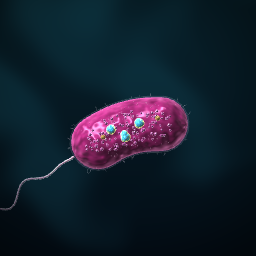
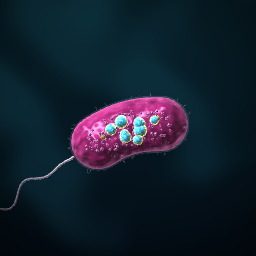
Снимки карточек: липучка, стрелы и быстрый рост на уровне 2, хвост целиком в кадре
Claude-Session: https://claude.ai/code/session_019VbyzHY9a6Ukt8aRvAWHvh

Changed region(s): [[0.4062, 0.4375, 0.625, 0.5625]]

diff --git a/proby/zaplyv/stend/hod.html b/proby/zaplyv/stend/hod.html
@@ -32,7 +32,7 @@ import { telo as telo_rosta } from '../delenie.js';
 const q0 = new URLSearchParams(location.search), MR = await (await fetch('../mir.json')).json(), K = MR.hod, KK = MR.kontakt, Z = MR.zhizn, S = K.stend, vid = VC.vidy[q0.get('sushchestvo')] ? q0.get('sushchestvo') : 'nasha';
 // ?snimok=1 — снимок для карточки умения (Роман 26.11 21:43: в карточки «из конструктора конкретную картинку»): клетка крупно по центру, плывёт ровно,
 // без кнопок, еды и взвеси; числа mir.json hod.stend.snimok. Снимки пересобирает stend/karty.cjs
-const SN = q0.get('snimok') ? S.snimok : null; if (SN) { S.tolshchina = SN.tolshchina; document.body.classList.add('snimok'); }
+const SN = q0.get('snimok') ? S.snimok : null; if (SN) document.body.classList.add('snimok');
 const W = 720, gl = new THREE.WebGLRenderer({ canvas: document.getElementById('c'), antialias: true, preserveDrawingBuffer: !!SN }); gl.setPixelRatio(Math.min(devicePixelRatio, 2.5)); gl.autoClear = false;
 const H = W * innerHeight / innerWidth; gl.setSize(innerWidth, innerHeight, false);
 const cam = new THREE.OrthographicCamera(0, W, 0, H, -1, 1), back = new THREE.Scene(), bodies = new Bodies(); bodies.resize(W, H);
@@ -45,7 +45,7 @@ bg.position.set(W / 2, H / 2, 0); bg.scale.y = -1; back.add(bg);
 let s = (+(q0.get('seed') || 1)) * 2654435761 % 2147483647 || 1; const rnd = () => (s = (s * 16807) % 2147483647) / 2147483647, hash = (a, b) => { const x = Math.sin(a * 127.1 + b * 311.7) * 43758.5453; return x - Math.floor(x); };
 // Умения на теле: набор { умение: уровень } из адреса (?navyki=hvost:2,ship:1) и с кнопок слева; запись клетки пересобирается с частями уровня (s_navykami)
 // ?poverh=1 — как в игре с ручным телом: клетка без умений, части умений дорисованы поверх (chasti_navykov)
-const POVERH = !!q0.get('poverh'), NV = {}; let zerno = +(q0.get('vid') || 0); for (const p of (q0.get('navyki') || '').split(',')) { const [k, u] = p.split(':'); if (VC.navyki.spisok[k] && +u > 0) NV[k] = +u; }
+const POVERH = !!q0.get('poverh'), NV = {}; let zerno = +(q0.get('vid') || 0); for (const p of (q0.get('navyki') || '').split(',')) { const [k, u] = p.split(':'); if (VC.navyki.spisok[k] && +u > 0) NV[k] = +u; } if (SN) S.tolshchina = SN.svoi?.[Object.keys(NV)[0]]?.tolshchina || SN.tolshchina;
 // Запись под ползунками: каждый раз новая копия записи вида, поэтому паспорт хода и величины считаются заново.
 const P0 = { myag: +(1 / (VC.vidy[vid].forma.zhestkost || 1)).toFixed(2), zhg: VC.vidy[vid].chasti.zhgutiki ? VC.vidy[vid].chasti.zhgutiki.n ?? VC.chasti.zhgutiki.n : 0, dl: 1, korma: VC.vidy[vid].chasti.zhgutiki?.gde === 'korma' ? 1 : 0 }, PZ = { ...P0 }; let zapis, PH, vmax = 0, TL, zerna = -1, rost = 0;
 function sobrat_zapis() { let z = JSON.parse(JSON.stringify(VC.vidy[vid])); z.forma.tochki = z.forma.tochki.map(([x, y, r]) => [x * PZ.dl, y, r]);
